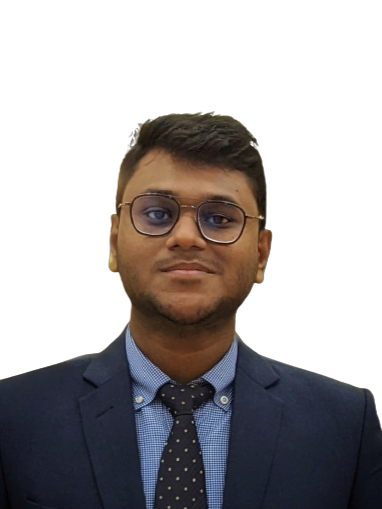
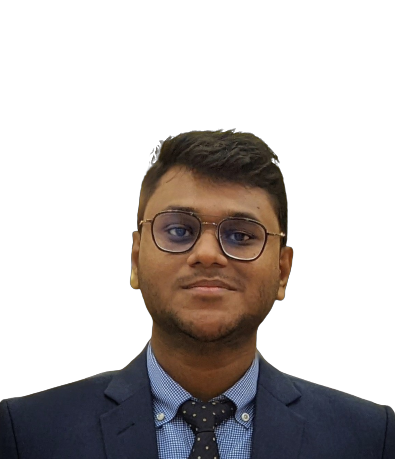
Added a floating nav bar and fixed some issues

diff --git a/src/components/Nav/Nav.jsx b/src/components/Nav/Nav.jsx
@@ -1,9 +1,20 @@
 import React from 'react'
 import './nav.css'
+import {AiOutlineHome} from 'react-icons/ai'
+import {AiOutlineUser} from 'react-icons/ai'
+import {AiOutlineProject} from 'react-icons/ai'
+import {AiOutlineContacts} from 'react-icons/ai'
+import {useState} from 'react'
 
 const Nav = () => {
+  const [activeNav, setActiveNav] = useState('#');
   return (
-    <div>Nav</div>
+    <nav>
+      <a href="#" onClick={() => setActiveNav('#')} className={activeNav === '#' ? 'active' : ''}><AiOutlineHome/></a>
+      <a href="#about" onClick={() => setActiveNav('#about')} className={activeNav === '#about' ? 'active' : ''}><AiOutlineUser/></a>
+      <a href="#projects" onClick={() => setActiveNav('#projects')} className={activeNav === '#projects' ? 'active' : ''}><AiOutlineProject/></a>
+      <a href="#contact" onClick={() => setActiveNav('#contact')} className={activeNav === '#contact' ? 'active' : ''}><AiOutlineContacts/></a>
+    </nav>
   )
 }
 

diff --git a/src/App.jsx b/src/App.jsx
@@ -2,10 +2,7 @@ import React from 'react'
 import Header from './components/header/Header'
 import Nav from './components/Nav/Nav'
 import About from './components/about/About'
-import Experience from './components/experience/Experience'
-import Services from './components/services/Services'
-import Portfolio from './components/portfolio/Portfolio'
-import Testimonials from './components/testimonials/Testimonials'
+import Projects from './components/projects/Projects'
 import Contact from './components/contact/Contact'
 import Footer from './components/footer/Footer'
 
@@ -15,10 +12,7 @@ const App = () => {
       <Header/>
       <Nav/>
       <About/>
-      <Experience/>
-      <Services/>
-      <Portfolio/>
-      <Testimonials/>
+      <Projects/>
       <Contact/>
       <Footer/>
     </>

diff --git a/src/components/Nav/nav.css b/src/components/Nav/nav.css
@@ -1,0 +1,33 @@
+nav {
+    background: rgba(0, 0, 0, 0.3);
+    width: max-content;
+    display: block;
+    padding: 0.7rem 1.7rem;
+    z-index: 2;
+    position: fixed;
+    left: 50%;
+    transform: translateX(-50%);
+    bottom: 2rem;
+    display: flex;
+    gap: 0.8rem;
+    border-radius: 3rem;
+    backdrop-filter: blur(15px);
+}
+
+nav a {
+    background: transparent;
+    padding: 0.9rem;
+    border-radius: 50%;
+    display: flex;
+    color: var(--color-light);
+    font-size: 1.1rem;
+}
+
+nav a:hover {
+    background: rgba(0, 0, 0, 0.3);
+}
+
+nav a.active {
+    background: var(--color-bg);
+    color: var(--color-white);
+}

diff --git a/src/components/header/header.css b/src/components/header/header.css
@@ -40,13 +40,13 @@ header {
 .me {
     background: linear-gradient(var(--color-primary), transparent);
     width: 22rem;
-    height: 30rem;
+    height: 25rem;
     position: absolute;
     left: calc(50% - 11rem);
     margin-top: 4rem;
     border-radius: 12rem 12rem 0 0;
     overflow: hidden;
-    padding: 5rem 1.5rem 1.5rem 1.5rem;
+    /* padding: 5rem 1.5rem 1.5rem 1.5rem; */
 }
 
 /* ========== SCROLL DOWN ==========*/

diff --git a/src/components/projects/Projects.jsx b/src/components/projects/Projects.jsx
@@ -1,0 +1,10 @@
+import React from 'react'
+import './projects.css'
+
+const Projects = () => {
+  return (
+    <section id='projects'>Projects</section>
+  )
+}
+
+export default Projects

diff --git a/src/components/contact/Contact.jsx b/src/components/contact/Contact.jsx
@@ -3,7 +3,7 @@ import './contact.css'
 
 const Contact = () => {
   return (
-    <div>Contact</div>
+    <section id='contact'>Contact</section>
   )
 }
 

diff --git a/src/components/about/About.jsx b/src/components/about/About.jsx
@@ -3,7 +3,7 @@ import './about.css'
 
 const About = () => {
   return (
-    <div>About</div>
+    <section id='about'>About</section>
   )
 }
 

diff --git a/src/index.css b/src/index.css
@@ -57,6 +57,7 @@ h1 {
 
 section {
     margin-top: 8rem;
+    height: 100vh;
 }
 
 section > h2, section > h5 {
